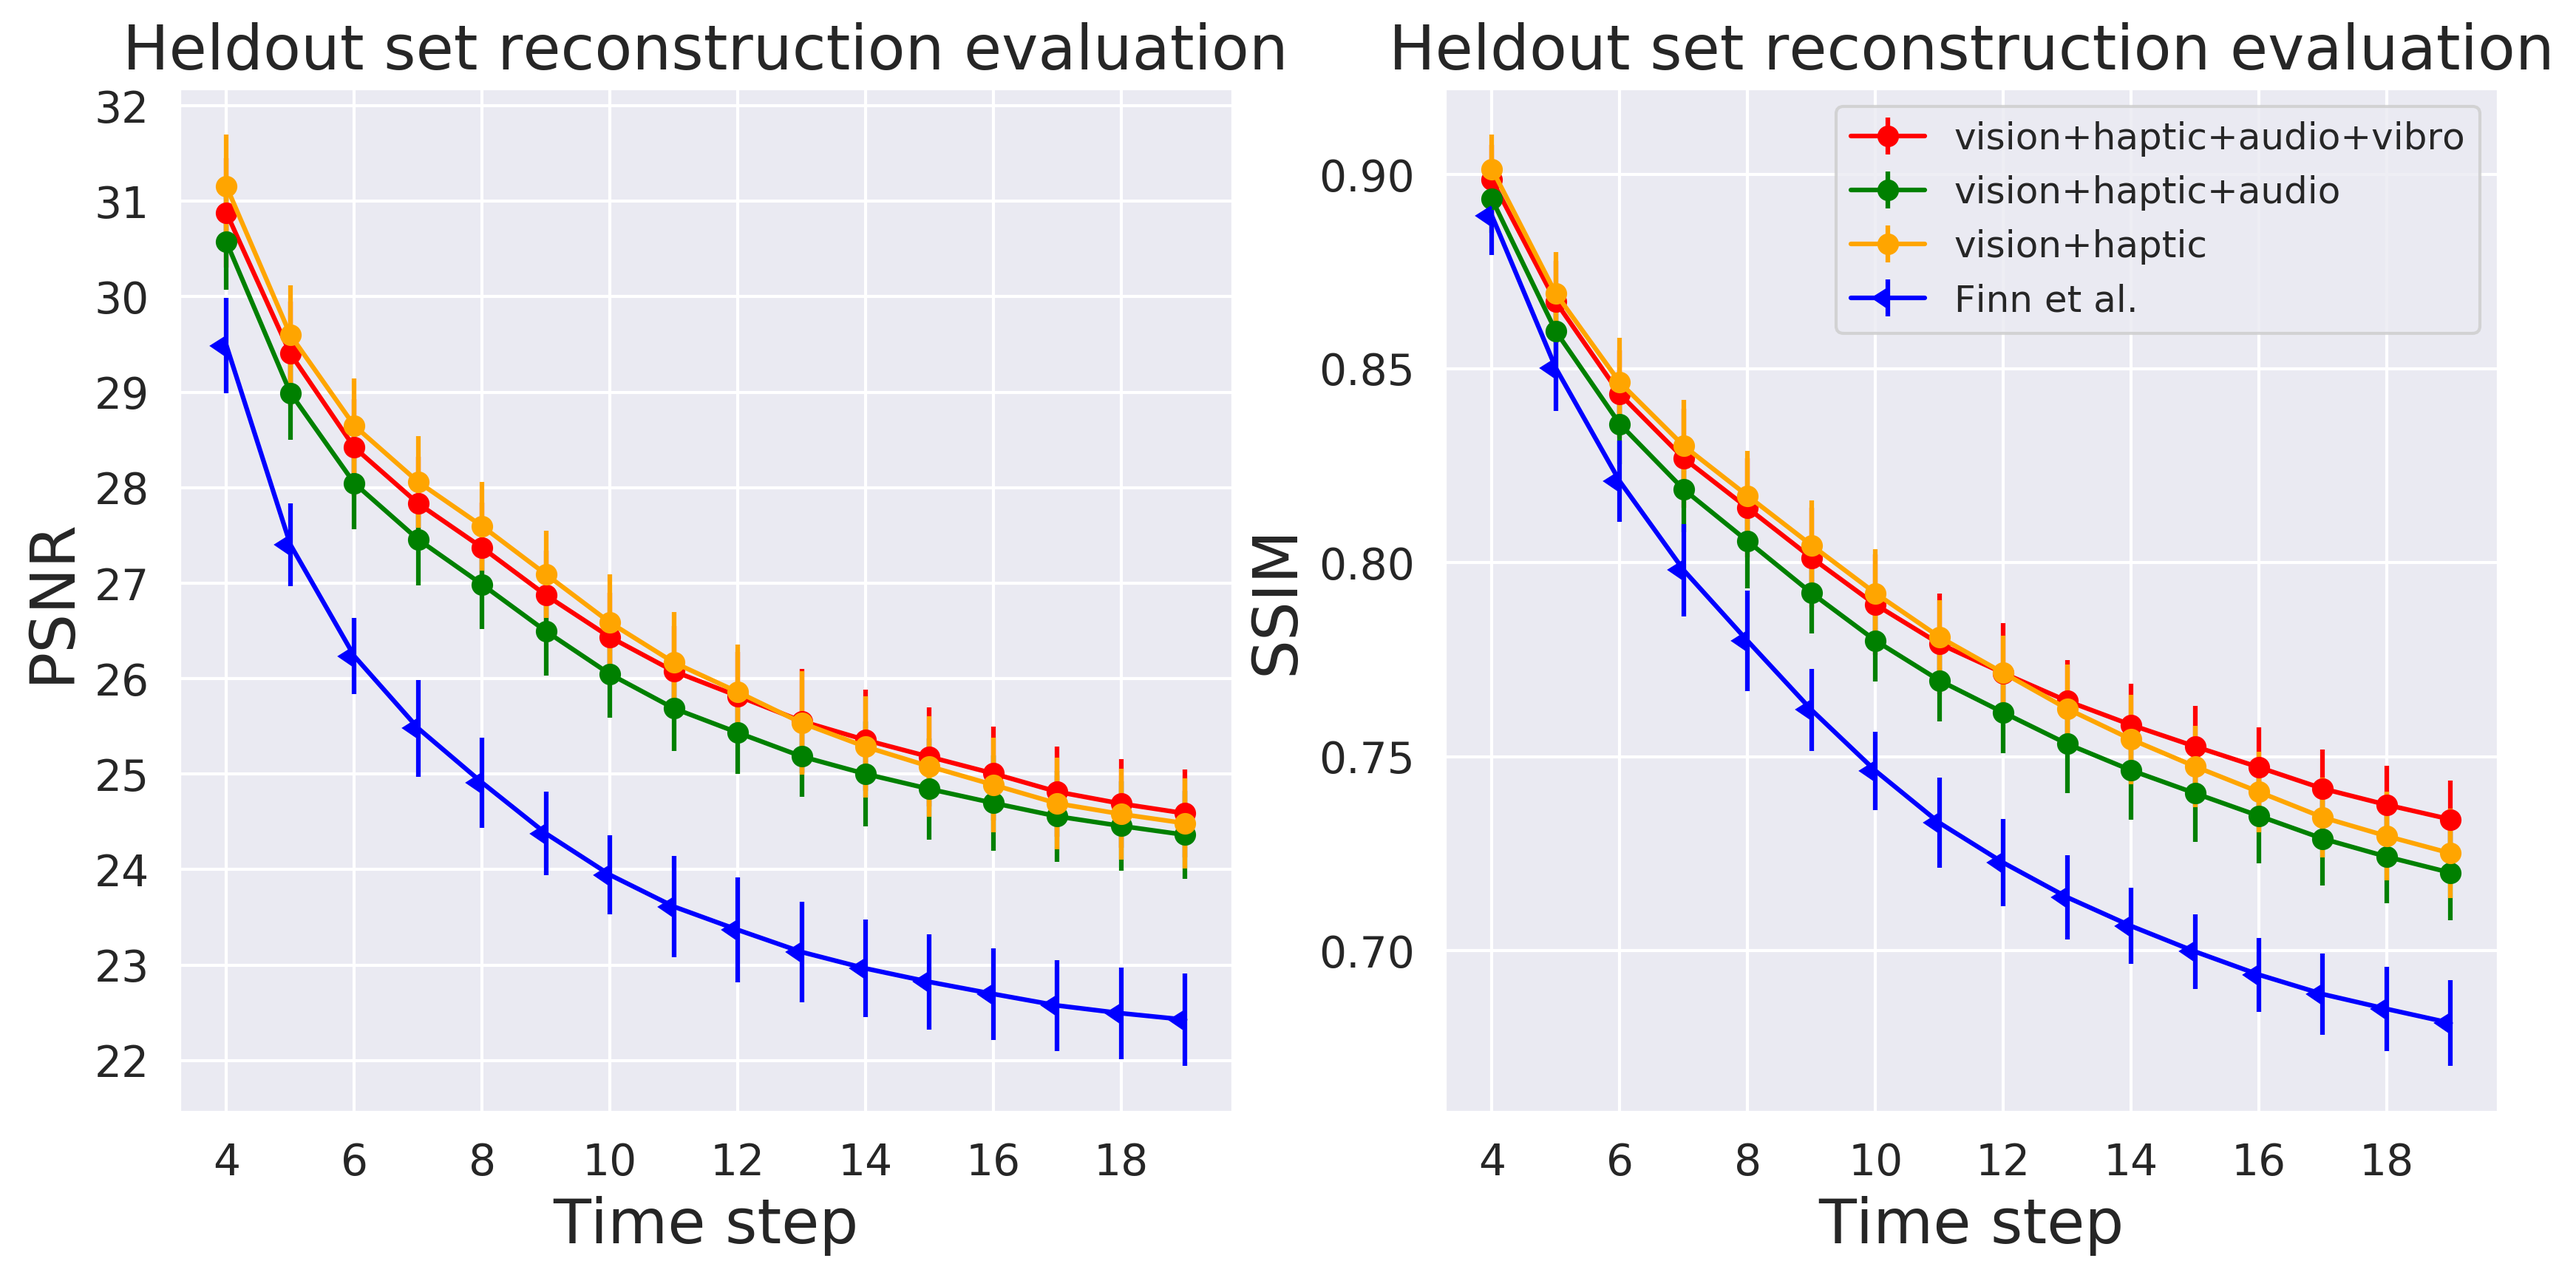
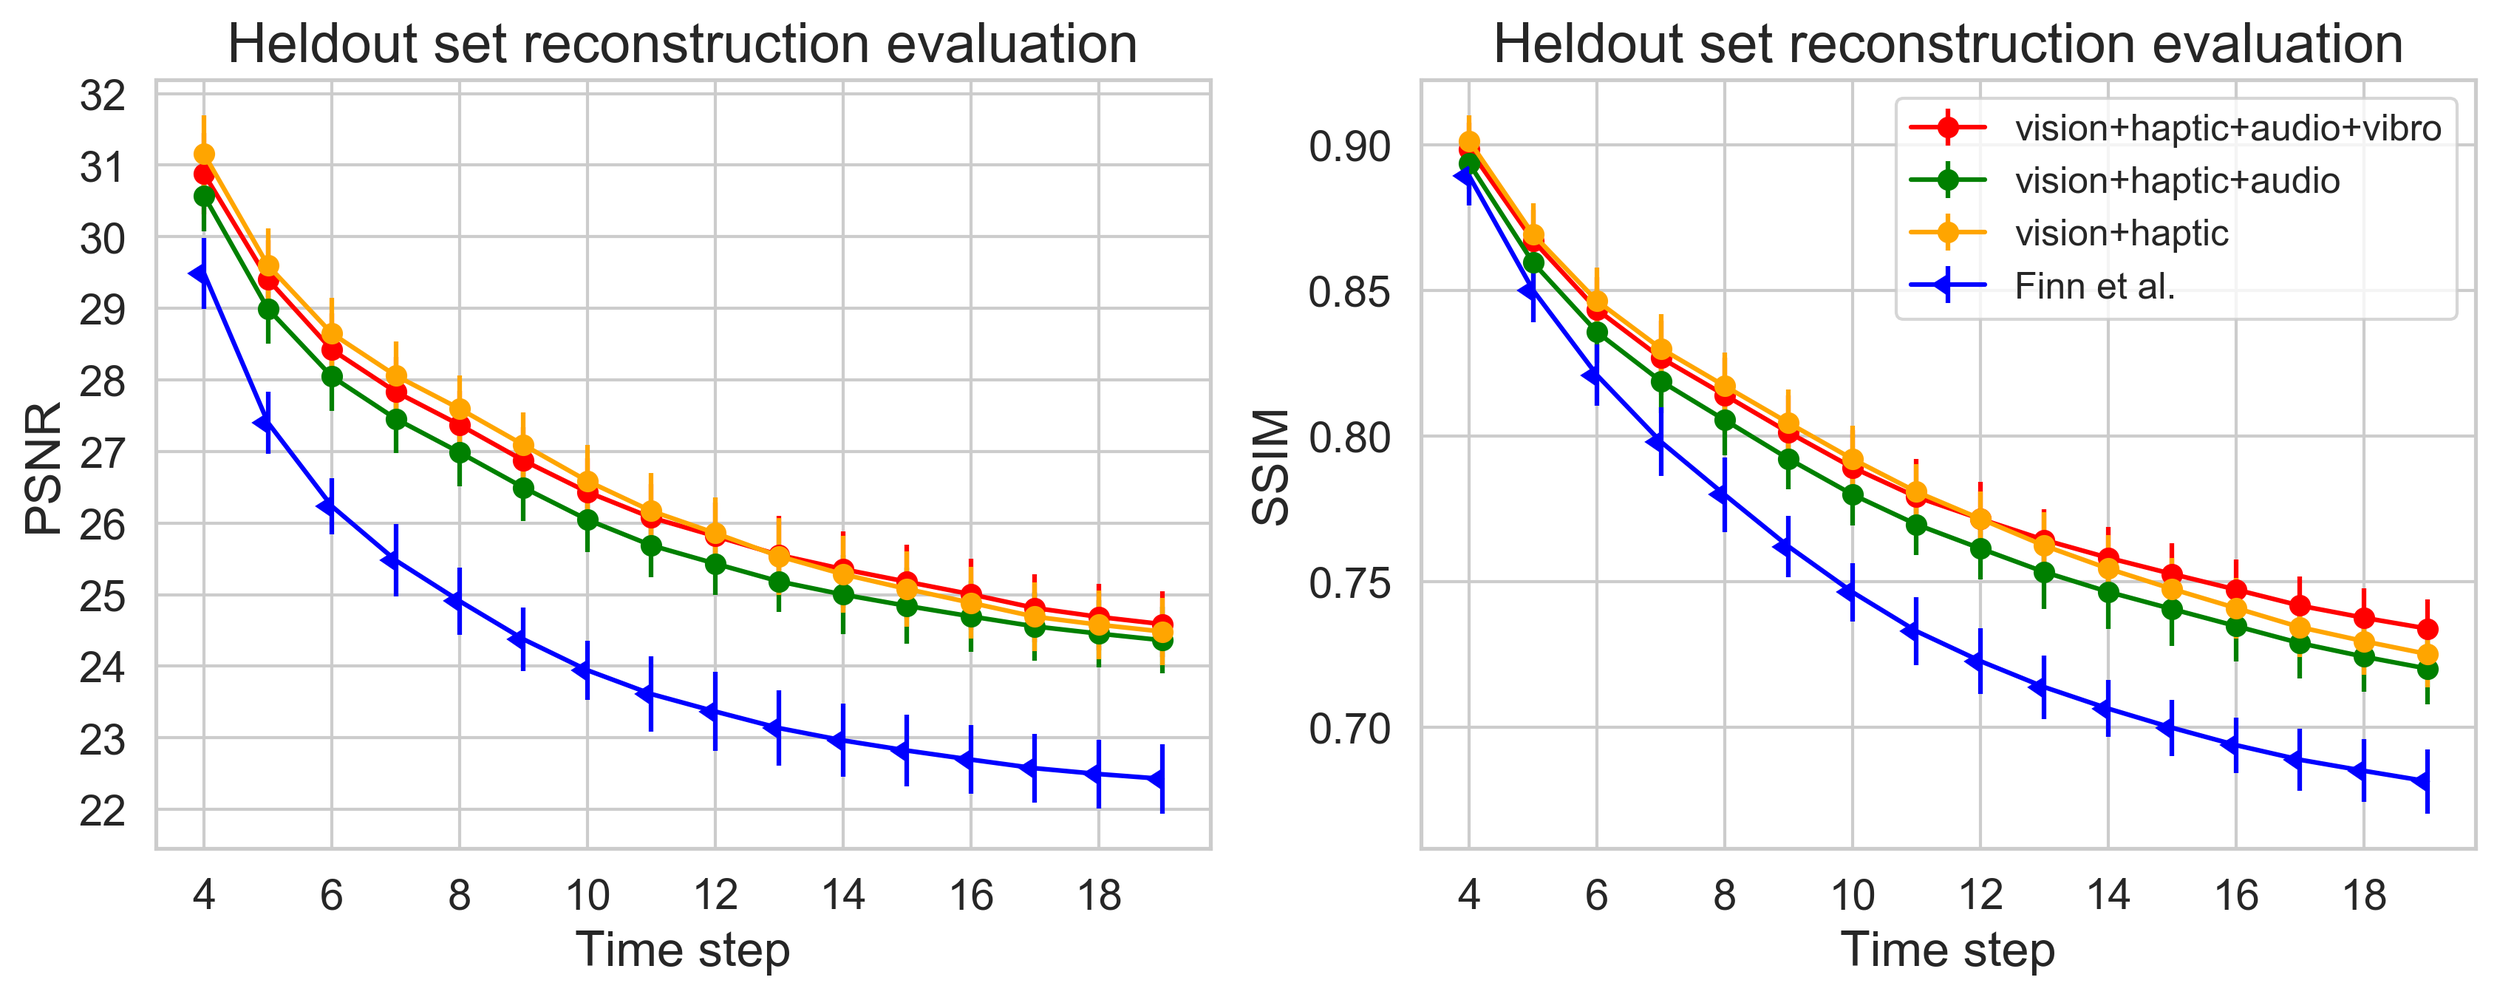
minor changes in plots

diff --git a/results/plot_all_with_std.py b/results/plot_all_with_std.py
@@ -7,13 +7,12 @@ paths = {
     'PSNR':'Experiement_object_based_all_behaviors/psnr_all_with_std.csv',
     'SSIM': 'Experiement_object_based_all_behaviors/ssim_all_with_std.csv'
 }
+sns.set(style="whitegrid")
 
-sns.set(style="darkgrid")
-
-plt.rcParams.update({'font.size': 20})
+plt.rcParams.update({'font.size': 16})
 plt.rc('ytick', labelsize=14)
 plt.rc('xtick', labelsize=14)
-f, axes = plt.subplots(1, 2, figsize=(13.5,6)) #figsize=(13.5,4.5)
+f, axes = plt.subplots(1, 2, figsize=(13.5,4.5)) #figsize=(13.5,4.5)
 for i, metric in enumerate(paths):
     df = pd.read_csv(paths[metric])
     if i == len(paths)-1:
@@ -26,9 +25,9 @@ for i, metric in enumerate(paths):
         axes[0].errorbar(x=range(4, 20), y=df.use_haptic_audio_mean, yerr=df.use_haptic_audio_std, marker="o", color='green')
         axes[0].errorbar(x=range(4, 20), y=df.use_haptic_mean, yerr=df.use_haptic_std, marker="o", color='orange')
         axes[0].errorbar(x=range(4, 20), y=df.baseline_mean, yerr=df.baseline_std, marker=8, color='blue')
-    axes[i].set_ylabel(metric, fontsize = 20)
-    axes[i].set_xlabel("Time step", fontsize = 20)
-    axes[i].set_title("Heldout set reconstruction evaluation", fontsize = 20)
+    axes[i].set_ylabel(metric, fontsize = 16)
+    axes[i].set_xlabel("Time step", fontsize = 16)
+    axes[i].set_title("Heldout set reconstruction evaluation", fontsize = 18)
     # plt.xlabel("# frames")
     axes[i].xaxis.set_major_locator(ticker.MultipleLocator(2))
     if metric == 'SSIM':
